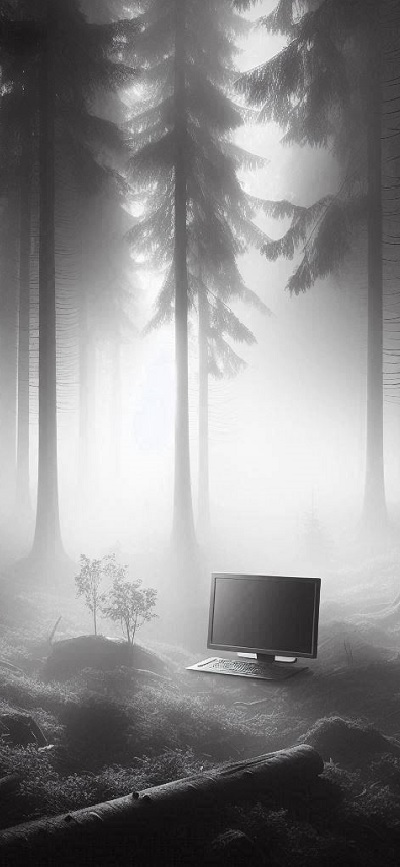
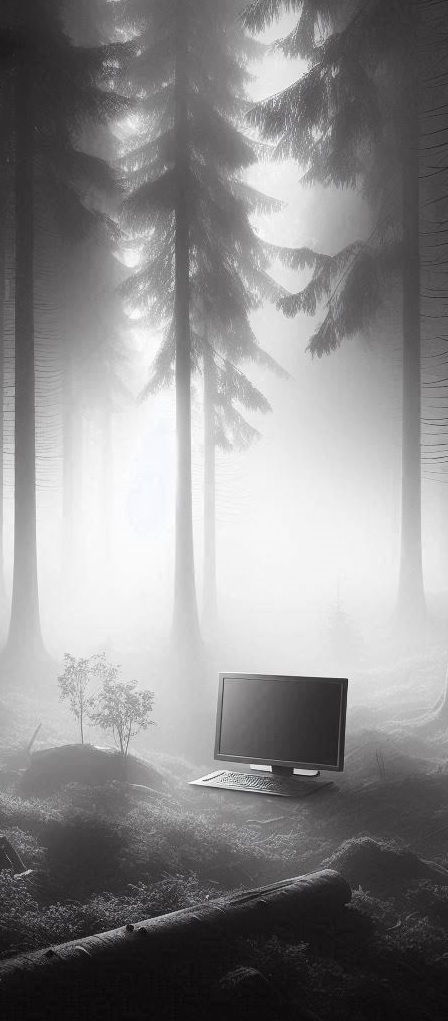
feat: home does not use the layout with header and footer

diff --git a/src/routes/RootRouter.tsx b/src/routes/RootRouter.tsx
@@ -44,6 +44,7 @@ import PortfolioSubject from "../pages/PortfolioSubject/PortfolioSubject";
 import CreateNewMessage from "../pages/contact/ContactForm";
 import CustomPulseLoader from "../components/shared/spinner/CustomPulseLoader";
 import Home from "../pages/home/Home";
+import Layout from "../components/Layout";
 
 const subjectsPaths = [
   DEVELOPMENT_ROUTES_PATH,
@@ -59,104 +60,111 @@ const RootRouter = () => {
   return (
     <Suspense fallback={<CustomPulseLoader isLoading={true} />}>
       <Routes>
-        {/** Public Routes */}
         <Route
-          path={ABOUT_ME_ROUTES_PATH}
-          element={<Bio />}
-        />
-        <Route
-          path={CONTACT_ROUTES_PATH}
-          element={<CreateNewMessage />}
-        />
+          element={
+            <Layout>
+              <Outlet />
+            </Layout>
+          }
+        >
+          {/** Public Routes */}
+          <Route
+            path={ABOUT_ME_ROUTES_PATH}
+            element={<Bio />}
+          />
+          <Route
+            path={CONTACT_ROUTES_PATH}
+            element={<CreateNewMessage />}
+          />
 
-        {VALID_CATEGORIES.map((category, index) => {
-          const path = subjectsPaths[index];
-          return (
-            path && (
-              <Route
-                key={category}
-                path={path}
-                element={<PortfolioSubject category={category} />}
-              />
-            )
-          );
-        })}
+          {VALID_CATEGORIES.map((category, index) => {
+            const path = subjectsPaths[index];
+            return (
+              path && (
+                <Route
+                  key={category}
+                  path={path}
+                  element={<PortfolioSubject category={category} />}
+                />
+              )
+            );
+          })}
 
-        <Route
-          path={`/${JOB_ROUTES_URI}/:id`}
-          element={<Job />}
-        />
-        <Route
-          path={AUTH_ROUTES_PATH}
-          element={<Login />}
-        />
+          <Route
+            path={`/${JOB_ROUTES_URI}/:id`}
+            element={<Job />}
+          />
+          <Route
+            path={AUTH_ROUTES_PATH}
+            element={<Login />}
+          />
 
-        <Route
-          path="/404"
-          element={<NotFound />}
-        />
+          <Route
+            path="/404"
+            element={<NotFound />}
+          />
 
+          <Route
+            path="*"
+            element={<Navigate to="/404" />}
+          />
+
+          {/** Private Routes */}
+          <Route
+            path={EDIT_ROUTES_PATH}
+            element={
+              <RequireAuth>
+                <Outlet />
+              </RequireAuth>
+            }
+          >
+            <Route
+              index
+              element={<Admin />}
+            />
+            <Route
+              path={CREATE_ROUTES_URI}
+              element={<CreateJob />}
+            />
+            <Route
+              path={`${JOB_ROUTES_URI}/:jobId`}
+              element={<EditJob />}
+            />
+            <Route
+              path={`${JOB_ROUTES_URI}/:jobId/${VERSION_ROUTES_URI}/:versionId`}
+              element={<EditJobVersions />}
+            />
+            <Route
+              path={`${JOB_ROUTES_URI}/:jobId/${PICTURES_ROUTES_URI}/:collectionId`}
+              element={<EditJobPictures />}
+            />
+            <Route
+              path={`${JOB_ROUTES_URI}/:jobId/${VIDEOS_ROUTES_URI}/:collectionId`}
+              element={<EditJobVideos />}
+            />
+            <Route
+              path={`${JOB_ROUTES_URI}/:jobId/${AUDIOS_ROUTES_URI}/:collectionId`}
+              element={<EditJobAudios />}
+            />
+          </Route>
+          <Route
+            path={MESSAGES_ROUTES_PATH}
+            element={
+              <RequireAuth>
+                <Outlet />
+              </RequireAuth>
+            }
+          >
+            <Route
+              index
+              element={<MessagesList />}
+            />
+          </Route>
+        </Route>
         <Route
           path="/"
           element={<Home />}
         />
-
-        <Route
-          path="*"
-          element={<Navigate to="/404" />}
-        />
-
-        {/** Private Routes */}
-        <Route
-          path={EDIT_ROUTES_PATH}
-          element={
-            <RequireAuth>
-              <Outlet />
-            </RequireAuth>
-          }
-        >
-          <Route
-            index
-            element={<Admin />}
-          />
-          <Route
-            path={CREATE_ROUTES_URI}
-            element={<CreateJob />}
-          />
-          <Route
-            path={`${JOB_ROUTES_URI}/:jobId`}
-            element={<EditJob />}
-          />
-          <Route
-            path={`${JOB_ROUTES_URI}/:jobId/${VERSION_ROUTES_URI}/:versionId`}
-            element={<EditJobVersions />}
-          />
-          <Route
-            path={`${JOB_ROUTES_URI}/:jobId/${PICTURES_ROUTES_URI}/:collectionId`}
-            element={<EditJobPictures />}
-          />
-          <Route
-            path={`${JOB_ROUTES_URI}/:jobId/${VIDEOS_ROUTES_URI}/:collectionId`}
-            element={<EditJobVideos />}
-          />
-          <Route
-            path={`${JOB_ROUTES_URI}/:jobId/${AUDIOS_ROUTES_URI}/:collectionId`}
-            element={<EditJobAudios />}
-          />
-        </Route>
-        <Route
-          path={MESSAGES_ROUTES_PATH}
-          element={
-            <RequireAuth>
-              <Outlet />
-            </RequireAuth>
-          }
-        >
-          <Route
-            index
-            element={<MessagesList />}
-          />
-        </Route>
       </Routes>
     </Suspense>
   );

diff --git a/src/pages/home/Home.css b/src/pages/home/Home.css
@@ -1,5 +1,4 @@
 .home {
-  position: relative;
   width: 100dvw;
   height: 100dvh;
 }
@@ -8,12 +7,24 @@
   position: fixed;
   top: 0;
   left: 0;
-  z-index: 20;
 }
 
 .home img {
   width: 100%;
   height: auto;
+}
+
+@media (max-width: 320px) {
+  .picture {
+    width: 150%;
+    top: -15dvh;
+    left: -25dvw;
+  }
+}
+@media (width = 375px) {
+  .picture {
+    width: 110%;
+  }
 }
 
 @media (width >= 1440px) {
@@ -22,6 +33,5 @@
     position: fixed;
     top: -50dvh;
     left: 0;
-    z-index: 20;
   }
 }

diff --git a/src/App.tsx b/src/App.tsx
@@ -1,4 +1,3 @@
-import Layout from "./components/Layout";
 import "./styles/normalize.css";
 import "./styles/common.css";
 import "./styles/components.css";
@@ -41,9 +40,7 @@ function App() {
 
   return (
     <>
-      <Layout>
-        <RootRouter />
-      </Layout>
+      <RootRouter />
     </>
   );
 }
